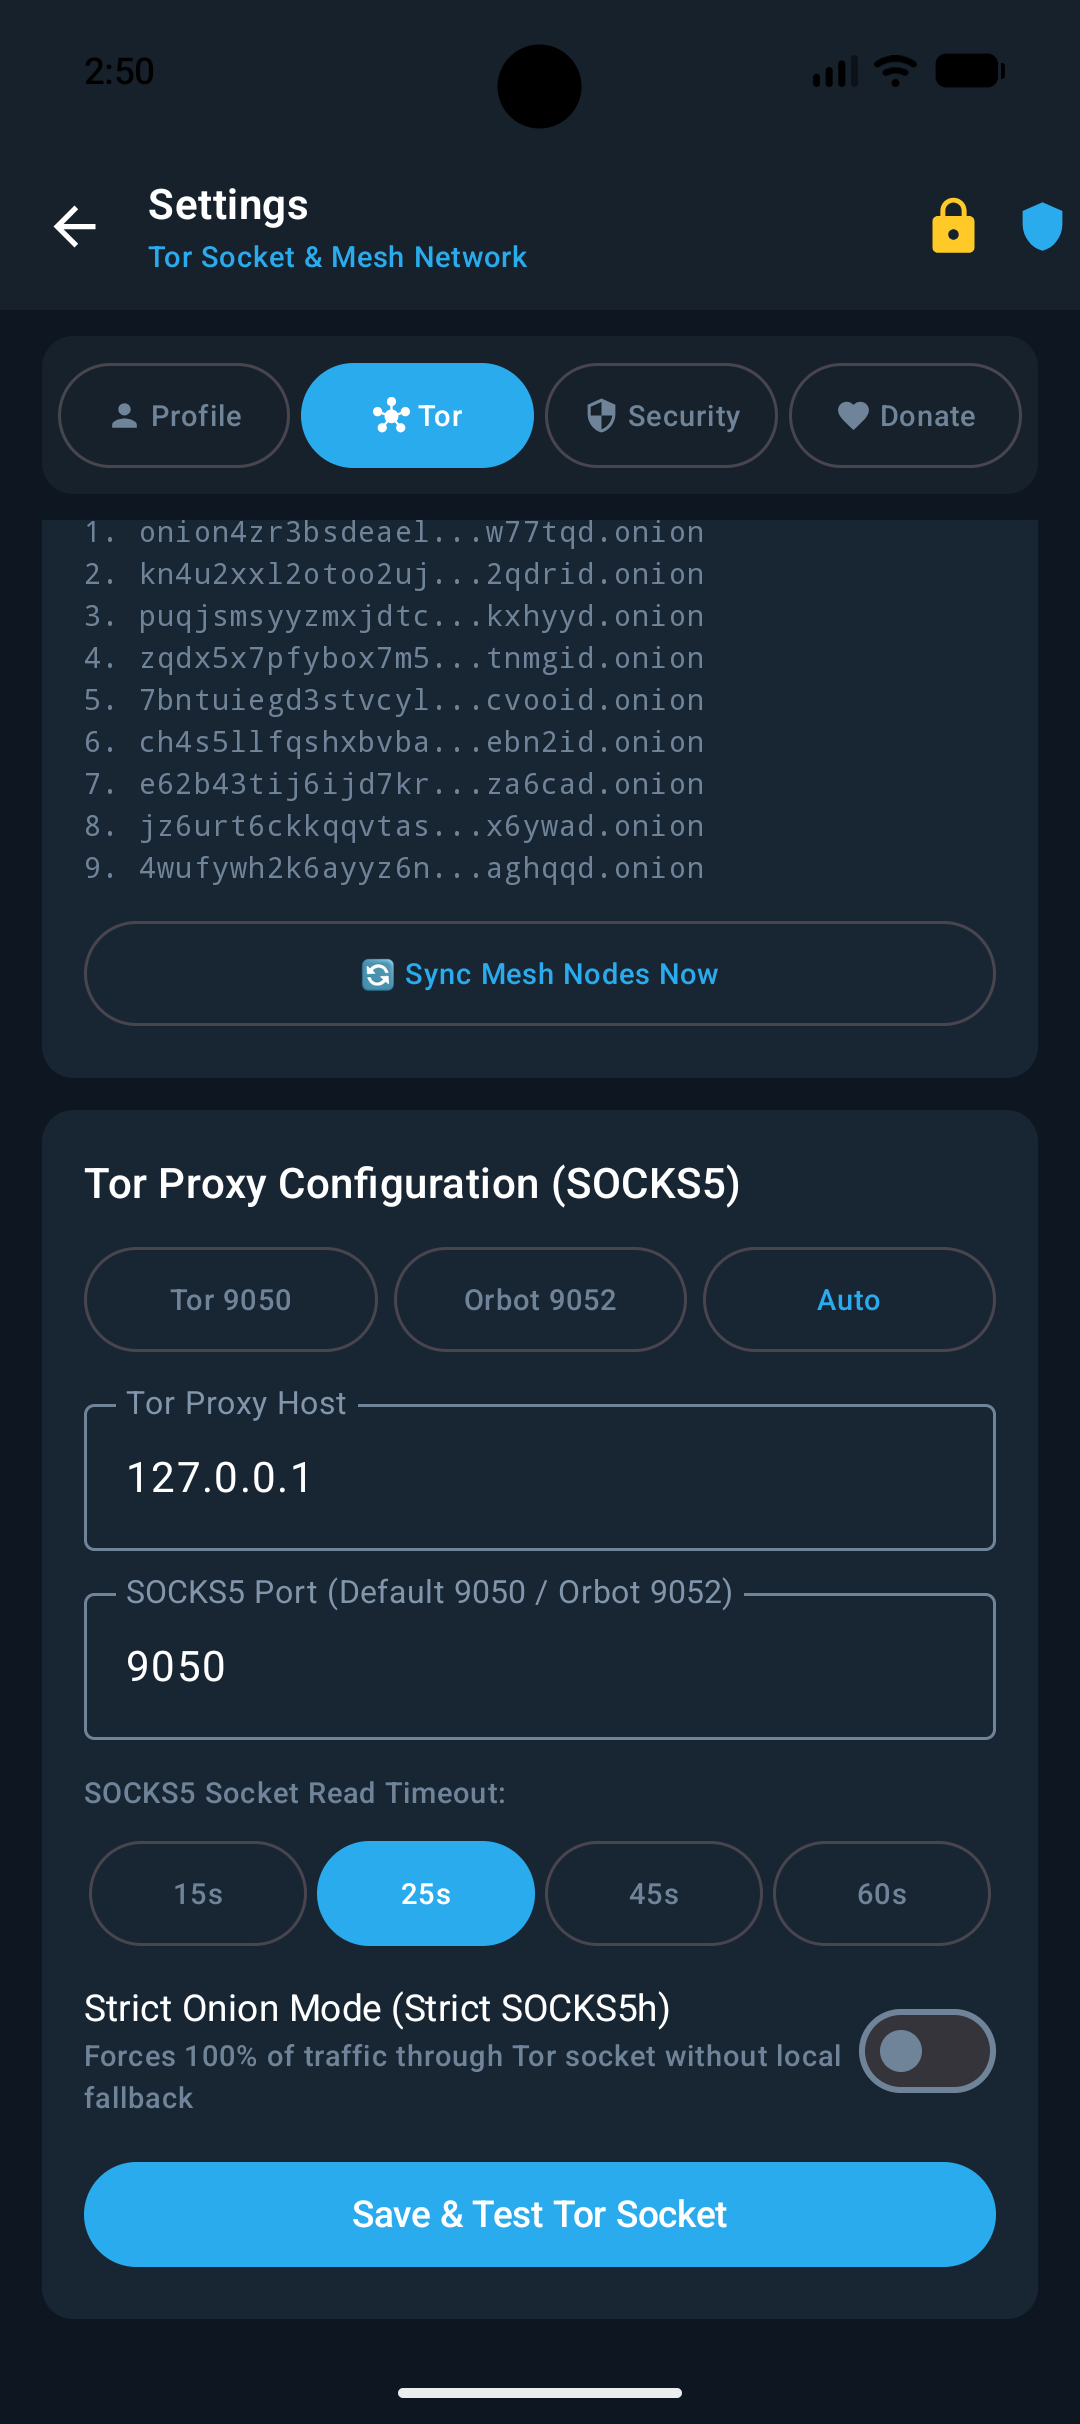
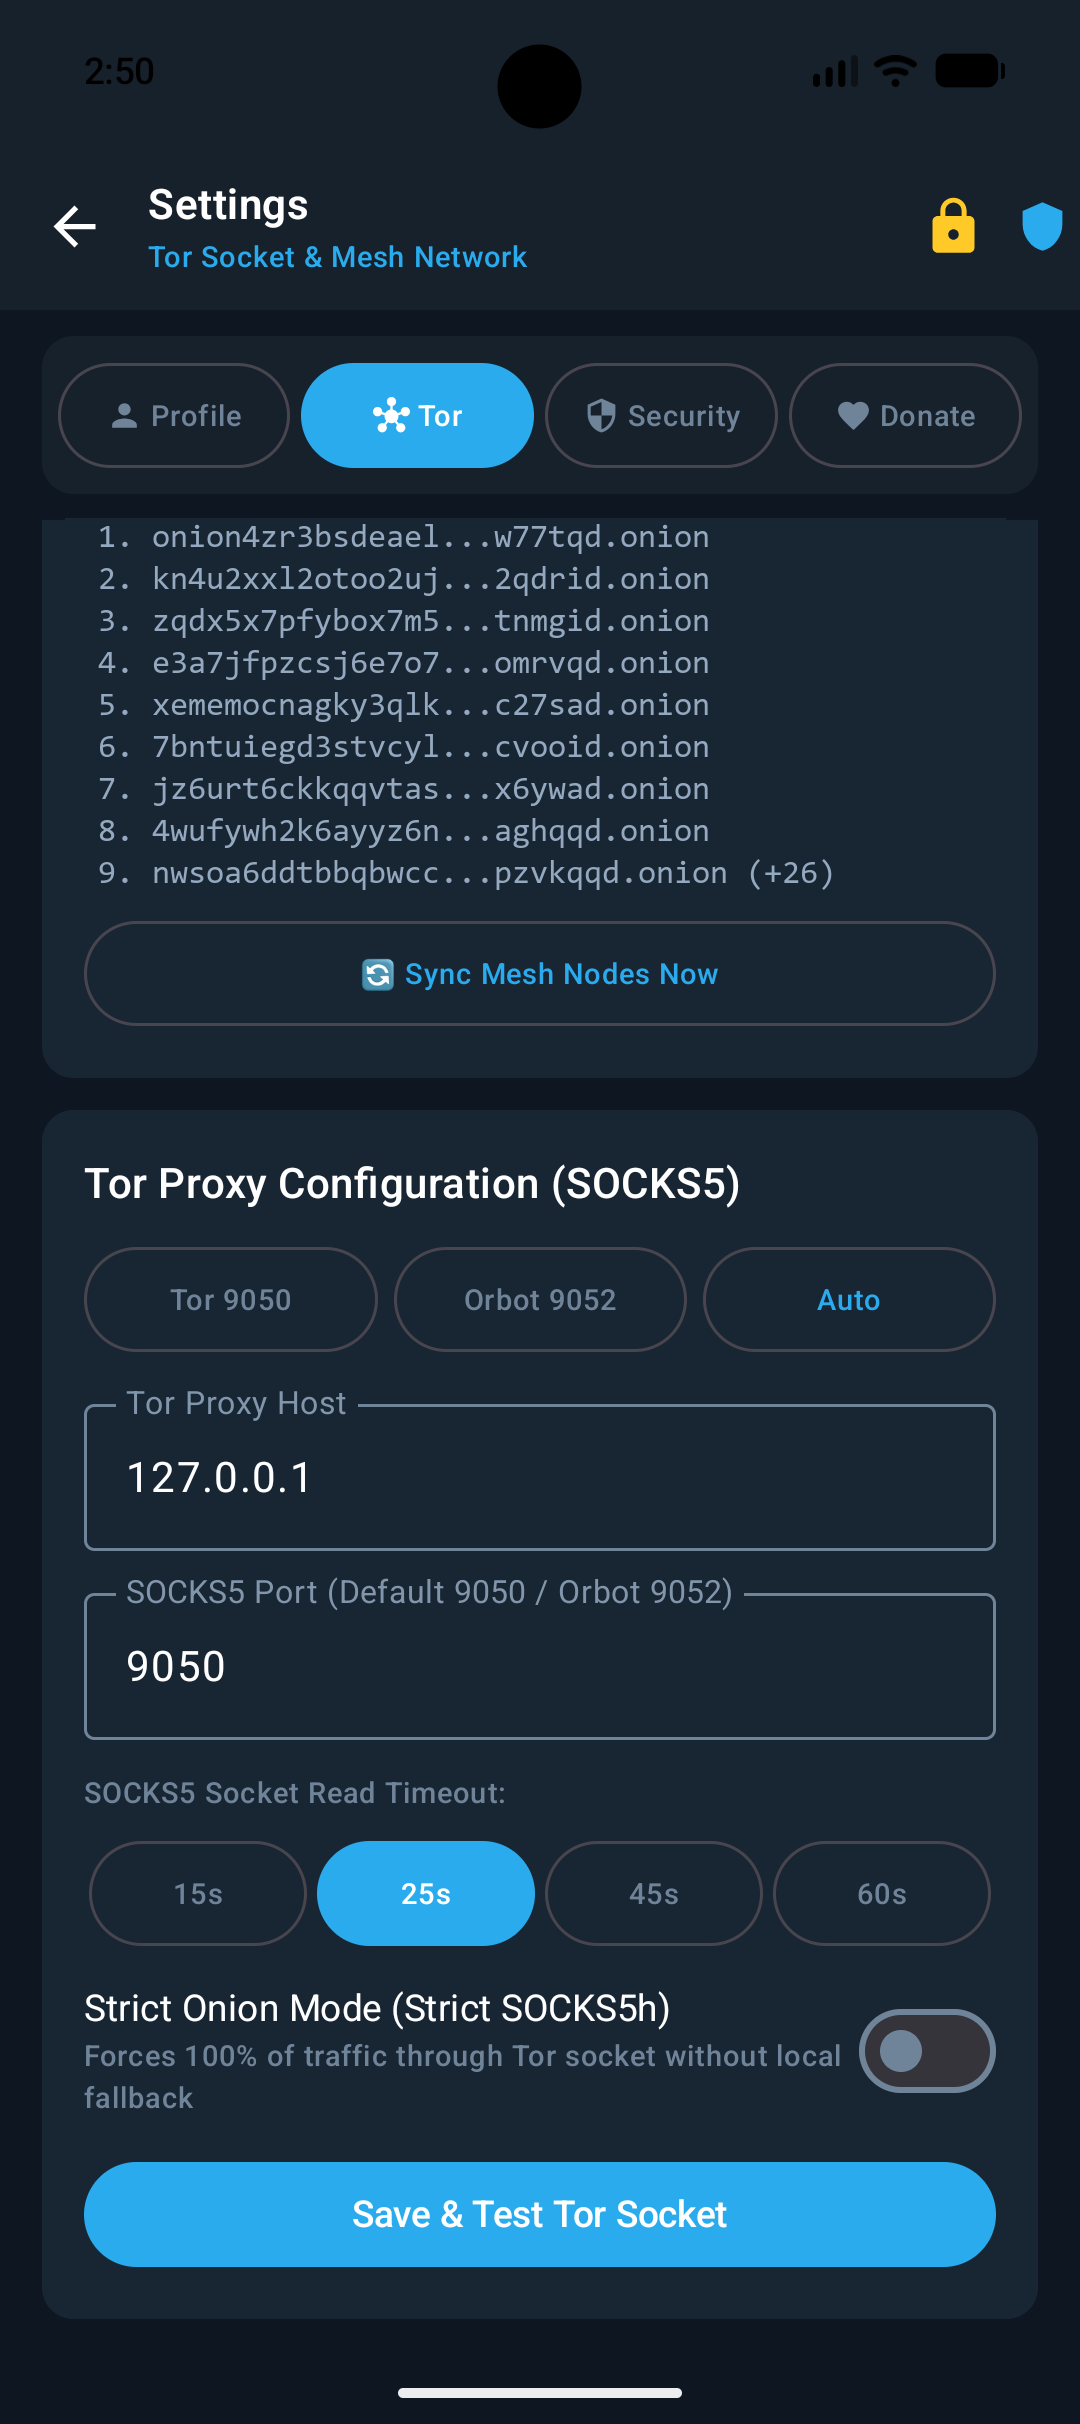
docs(screenshots): update visual walkthrough & showcase images to v1.5.7 (Build 51)

Changed region(s): [[0.0611, 0.2166, 0.6722, 0.3713], [0.7333, 0.3403, 0.7639, 0.3713]]

diff --git a/README.md b/README.md
@@ -31,12 +31,18 @@
 
 ---
 
-## 🚀 What's New in `v1.5.4` (`versionCode = 48` / Build 48) & Relay Node `v1.5.2` (`Build 11`) & Mesh `v=31` — Sovereign PQC Groups, In-RAM Image Blur Studio, Post-Quantum Hybrid Encryption (`ML-KEM-768`), Dual Warm Socket Pool (`~1.13s` E2E) & 20-Node Zero-Leak Mesh
+## 🚀 What's New in `v1.5.7` (`versionCode = 51` / Build 51) & Relay Node `v1.5.7` (100% Rust Native `oniontalk-relay-rs`) — Sub-700ms OnionVoice V1 PQC Voice Calls, Pop-on-Read Voice Stream, Sovereign PQC Groups, Real Web Mic Recording & 35-Node Zero-Leak Mesh
 
-- **📦 Direct Signed APK Downloads & Web Container (`v1.5.4` — Latest Release Build 48)**:
-  - **Main Messenger APK (`org.oniontalk.messenger` `v1.5.4` Build 48)**: [**Download `OnionTalk.apk` (latest)**](https://github.com/onion-talk/oniontalk-demo/releases/latest/download/OnionTalk.apk) ([`SHA256SUMS.txt`](https://github.com/onion-talk/oniontalk-demo/releases/latest/download/SHA256SUMS.txt))
+- **📦 Direct Signed APK Downloads & Web Container (`v1.5.7` — Latest Release Build 51)**:
+  - **Main Messenger APK (`org.oniontalk.messenger` `v1.5.7` Build 51)**: [**Download `OnionTalk.apk` (latest)**](https://github.com/onion-talk/oniontalk-demo/releases/latest/download/OnionTalk.apk) ([`SHA256SUMS.txt`](https://github.com/onion-talk/oniontalk-demo/releases/latest/download/SHA256SUMS.txt))
   - **Standalone Android Relay Node APK (`org.oniontalk.relaynode` `v1.5.2` Build 11)**: [**Download `OnionTalk-RelayNode.apk` (latest)**](https://github.com/onion-talk/oniontalk-relay/releases/latest/download/OnionTalk-RelayNode.apk) ([`SHA256SUMS.txt`](https://github.com/onion-talk/oniontalk-relay/releases/latest/download/SHA256SUMS.txt))
   - **🐳 Desktop & Web Container + Embedded Tor v3 Relay (`Windows / Linux / macOS`)**: [**`eriktonon/oniontalk-web:latest`**](https://hub.docker.com/r/eriktonon/oniontalk-web) ![Docker tag](https://img.shields.io/docker/v/eriktonon/oniontalk-web?sort=semver&label=tag&style=flat-square) — Self-contained Rust Black-Box Web Messenger + active Tor v3 Hidden Service Relay listening on `127.0.0.1:8420`.
+  - **🦀 100% Rust Native Relay Container (`oniontalk-relay-rs v1.5.7`)**: [**`eriktonon/oniontalk:latest`**](https://hub.docker.com/r/eriktonon/oniontalk) — Zero-Python Tokio/Axum + Sharded `DashMap` relay node (`11.9 MiB` RAM, `-92%` footprint) with isochronous `/api/v1/voice/stream`.
+
+| **1. OnionVoice V1 PQC Call (`v1.5.7`)** | **2. Sovereign PQC Groups & FounderPass** | **3. 100% Rust Relay Node & 35-Node Mesh** |
+| :---: | :---: | :---: |
+| <img src="./screenshots/20-onionvoice-pqc-call-v157.png" width="260" alt="OnionVoice V1 PQC Voice Call" /> | <img src="./screenshots/21-pqc-groups-founder-v157.png" width="260" alt="Sovereign PQC Groups and FounderPass" /> | <img src="./screenshots/18-relay-node-android-v101.png" width="260" alt="OnionTalk Relay v1.5.7 Rust Engine" /> |
+| *Sub-700ms PQC voice calls over Tor v3 with WSOLA 1.17x + CoDel anti-clip and pop-on-read `/api/v1/voice/stream`.* | *Post-Quantum Groups (`ML-KEM-768`), Admin Criteria Sync (`__CTRL_GROUP_META_PQC_V1__`), `FounderPass` & sovereign local deletion.* | *`oniontalk-relay-rs v1.5.7` (`11.9 MiB` RAM, 0% Python) synchronized across 35 global `.onion` v3 nodes.* |
 
 ### 🐳 Run OnionTalk Web Client + Embedded Tor v3 Relay on Desktop (`Windows / Linux / macOS`)
 
@@ -67,7 +73,7 @@ Or use [`docker-compose.web.yml`](./docker-compose.web.yml) (`docker compose -f 
 > @bbac48f99ed4536ce9134df16cc49dbed2d9109ed351710d181d86c28f34efd9:onion4zr3bsdeaelksemwokl5qmxd5o7jyblf46vc2mfl6cozgw77tqd.onion
 > ```
 > 📸 **Instagram Oficial:** [https://www.instagram.com/oniontalk.app/](https://www.instagram.com/oniontalk.app/) (`@oniontalk.app`)
-- **🛡 Key Cryptographic & P2P Mesh Breakthroughs in `v1.5.4` (`Build 48` & Relay `Build 10`)**:
+- **🛡 Key Cryptographic, Voice & P2P Mesh Breakthroughs in `v1.5.7` (`Build 51` & Rust Relay `v1.5.7`)**:
   1. **Sovereign Post-Quantum Encrypted Groups (`PQC Groups`) & Anti-Spam Proof-of-Community**: End-to-end encrypted multi-party group chats over Tor v3 with zero central member servers. Group creation unlocks automatically via organic local proof-of-community (`3+ mutual contacts` + `5+ days of vault maturity`, evaluated 100% locally) or immediately via an offline `Ed25519`-signed **`FounderPass`** certificate granted to community Relay Node Operators (`2+ hours active uptime`) or voluntary crypto supporters.
   2. **In-RAM Image Blur & Pixelation Studio + Zero-EXIF Sanitizer**: Built-in tactile brush editor (`Gaussian Blur` & `Mosaic Pixelate`) operating strictly in volatile RAM before encryption, combined with 100% EXIF/GPS header stripping and Least Significant Bit (`LSB`) anti-fingerprinting jitter.
   3. **Hybrid Post-Quantum Cryptography (`__ENC_PQC_KYBER768_X25519_V3__`)**: Combines classical **Dual X25519 ECDH** with **NIST FIPS 203 ML-KEM-768 (`Kyber-768`)** key encapsulation via `HKDF-SHA256` + `ChaCha20-Poly1305 AEAD` + `Ed25519` outer envelope signatures to protect against *Harvest Now, Decrypt Later* quantum adversaries.
